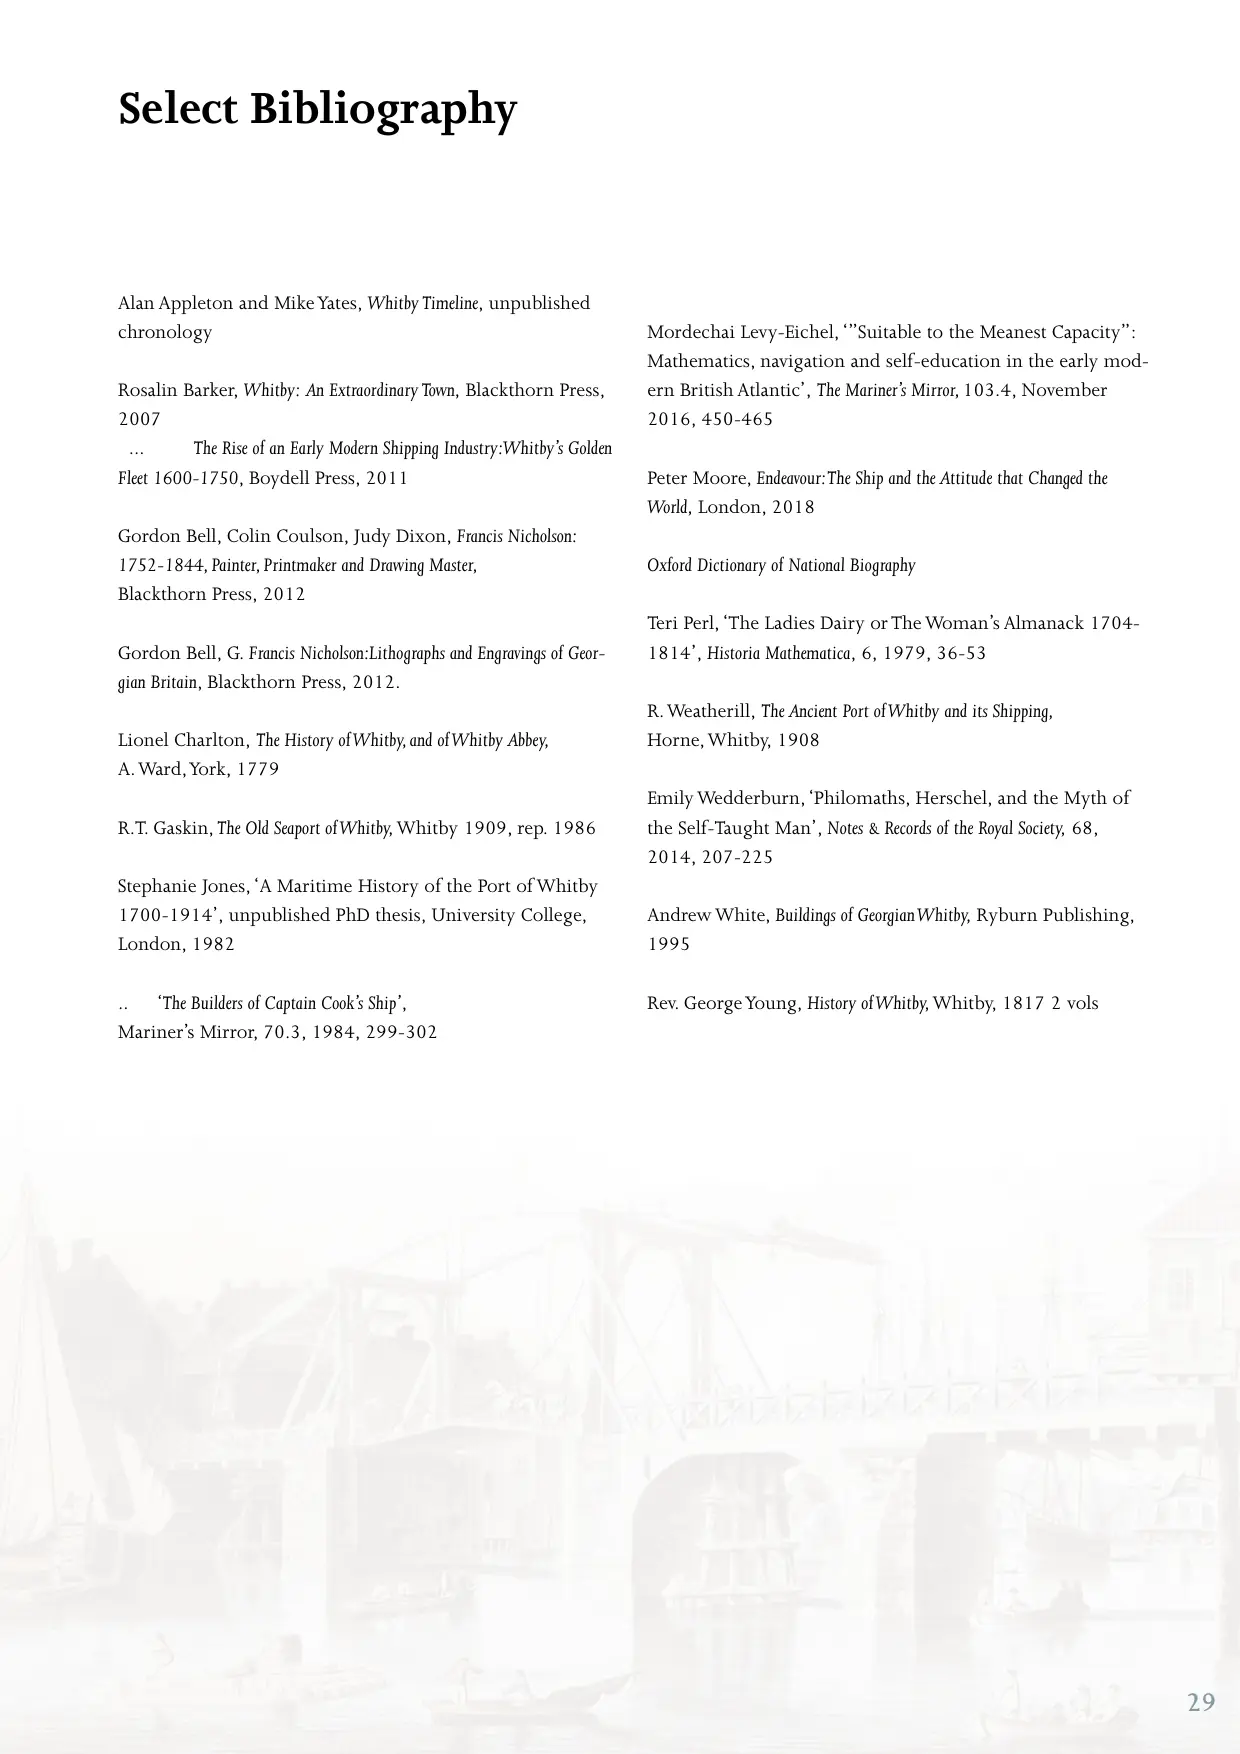
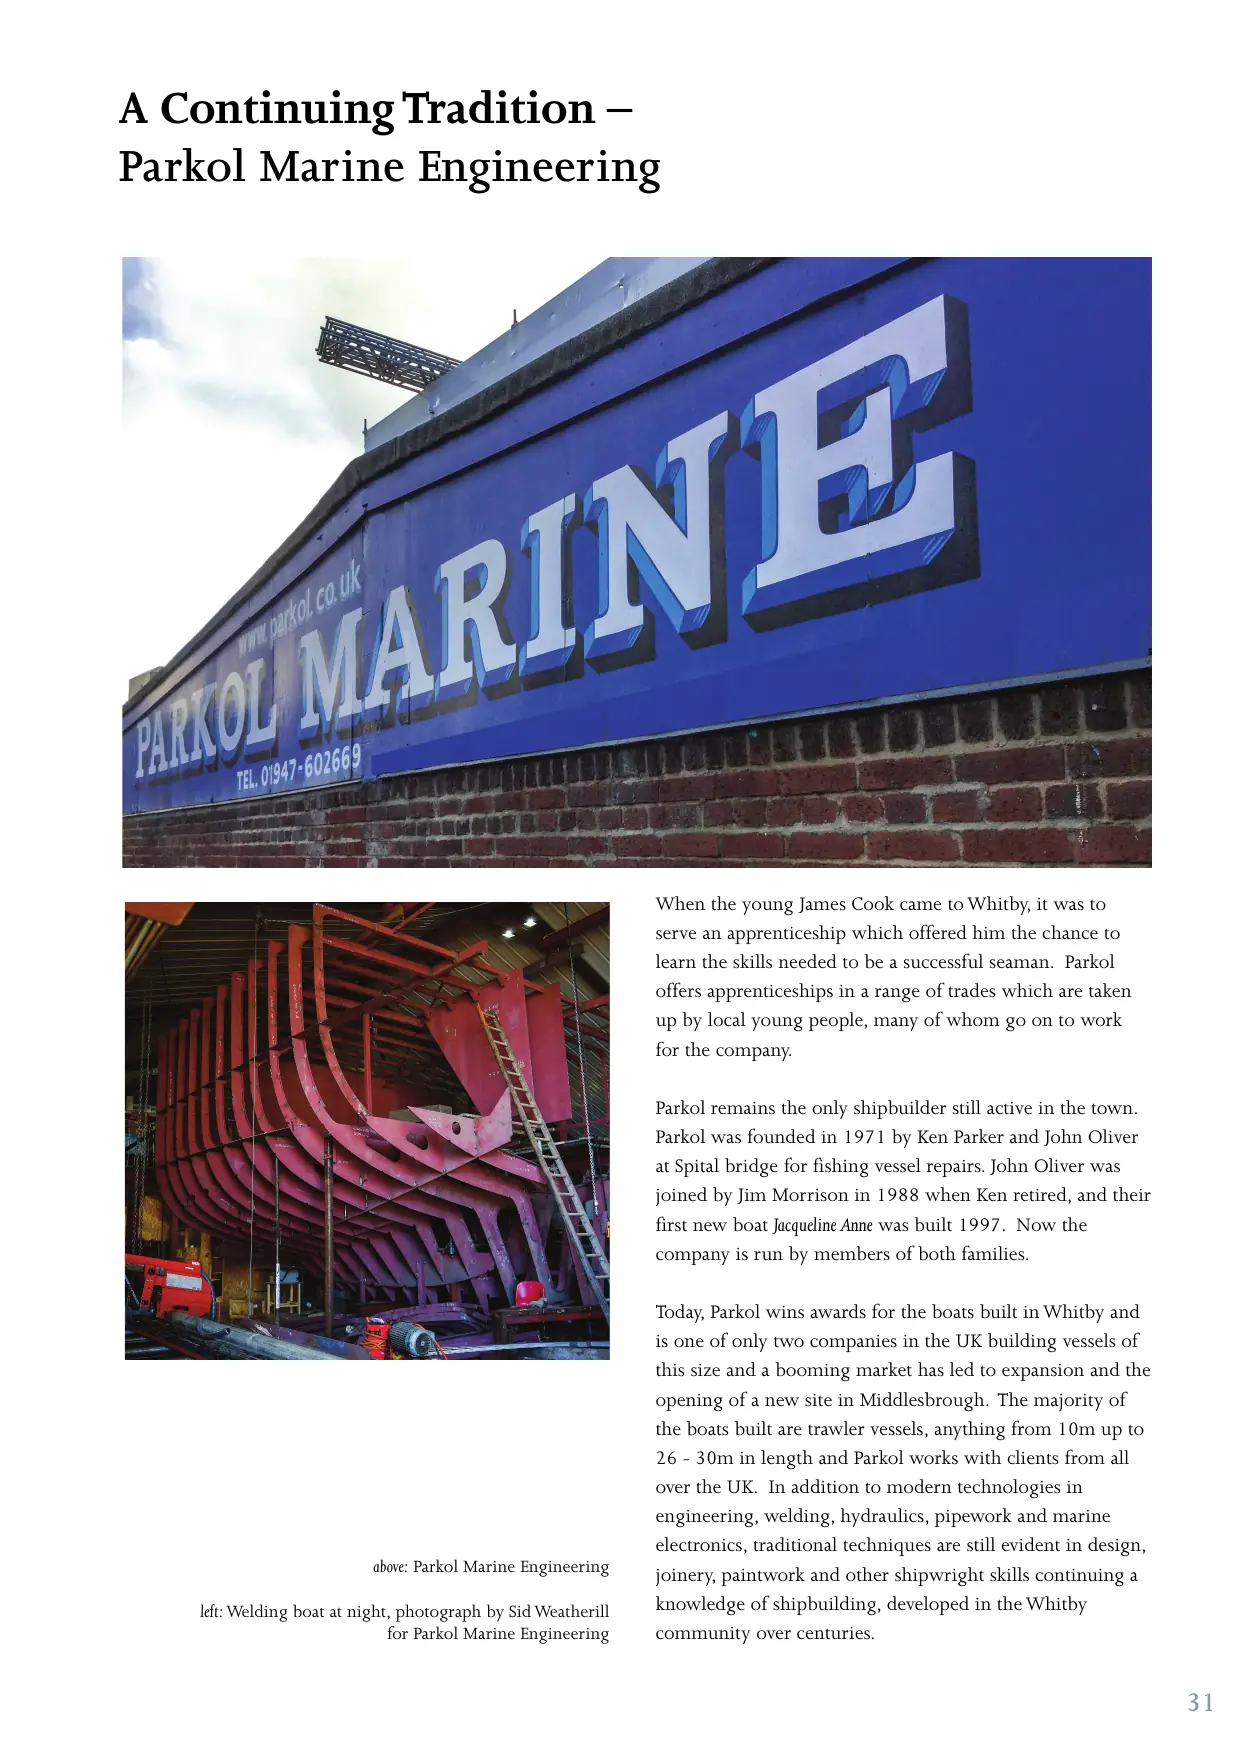
Whitby flipbook: swap Bibliography and Parkol pages to match contents
Claude-Session: https://claude.ai/code/session_01SnCejWoR1nkvPapd6stcxN

diff --git a/public/whitby-time-of-cook-flipbook/index.html b/public/whitby-time-of-cook-flipbook/index.html
@@ -182,8 +182,8 @@ input[type=range] { flex: 1; min-width: 120px; max-width: 520px; accent-color: v
     { p: 25, t: "Lionel Charlton’s circle: mathematics, art and surveying in Whitby" },
     { p: 27, t: "Abel Chapman and his world" },
     { p: 33, t: "‘Success to the Whitby’" },
-    { p: 35, t: "Select Bibliography" },
-    { p: 37, t: "A Continuing Tradition: Parkol Marine Engineering" },
+    { p: 35, t: "A Continuing Tradition: Parkol Marine Engineering" },
+    { p: 37, t: "Select Bibliography" },
     { p: 40, t: "Back cover" },
   ];
   const reduce = matchMedia("(prefers-reduced-motion: reduce)").matches;
